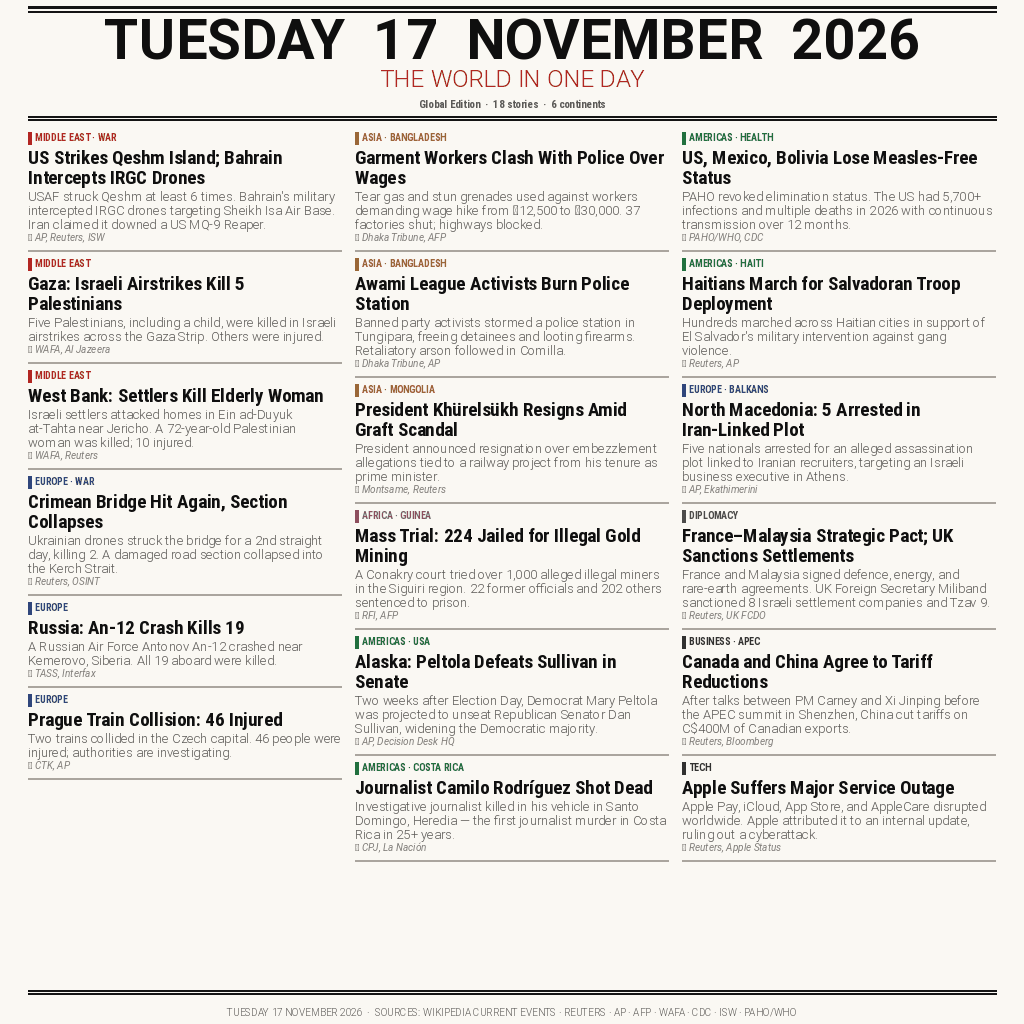
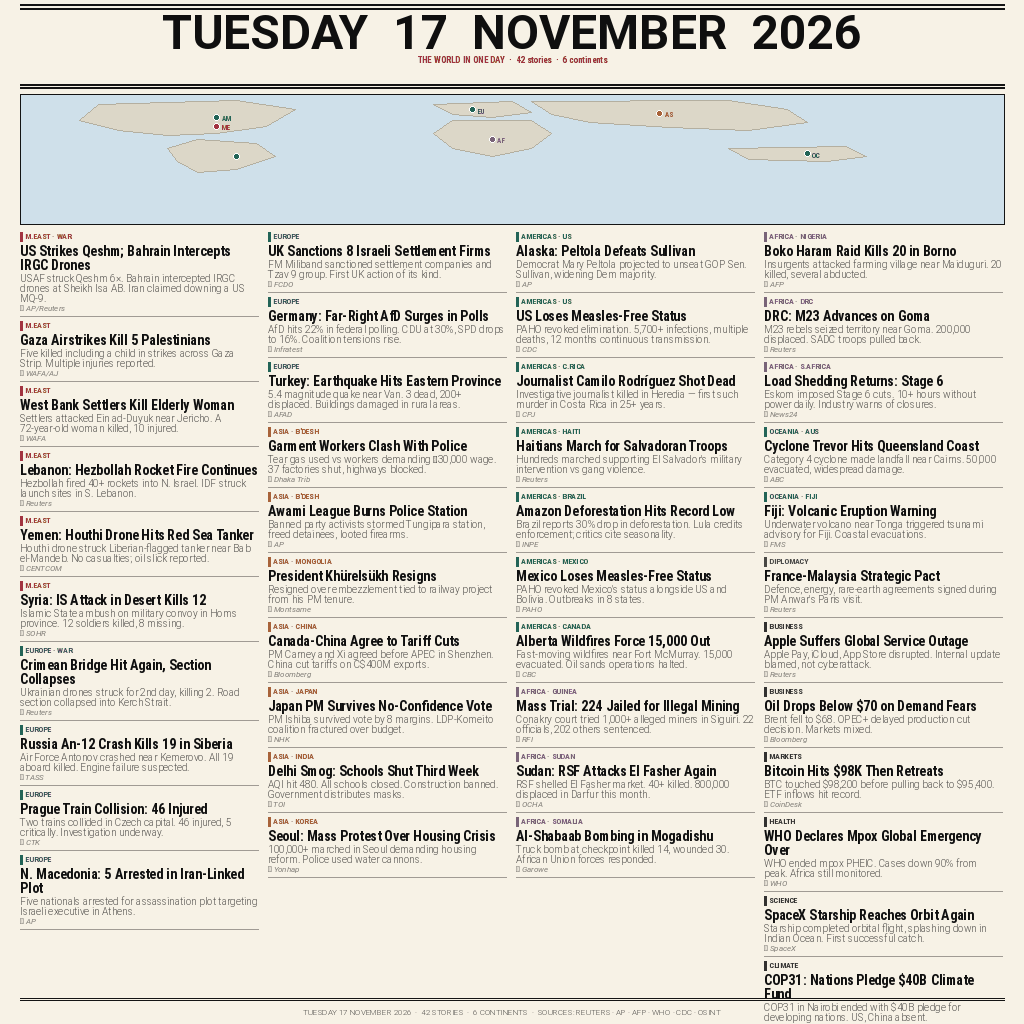
v2: 42 stories, world map, 4-column layout, high contrast for 300px readability

diff --git a/generate_v2.py b/generate_v2.py
@@ -1,0 +1,240 @@
+#!/usr/bin/env python3
+"""Generate entry.png v2 — dense newspaper front page, 40+ stories, world map, high contrast.
+Analyzing top 5: cream bg, big header, world map, 35-50 stories, 6 continents."""
+
+from PIL import Image, ImageDraw, ImageFont
+import os, math
+
+W, H = 1024, 1024
+OUT = "/data/data/com.termux/files/home/makefun/newsimg/entry.png"
+
+FONT_DIR = "/system/fonts"
+def font(name, size):
+    try:
+        return ImageFont.truetype(os.path.join(FONT_DIR, name), size)
+    except:
+        return ImageFont.truetype(os.path.join(FONT_DIR, "Roboto-Regular.ttf"), size)
+
+F_DATE    = font("Roboto-Bold.ttf", 48)
+F_DAY     = font("Roboto-Light.ttf", 18)
+F_HEAD    = font("RobotoCondensed-Bold.ttf", 14)
+F_BODY    = font("Roboto-Light.ttf", 10)
+F_SRC     = font("Roboto-Italic.ttf", 8)
+F_KICKER  = font("RobotoCondensed-Bold.ttf", 8)
+F_FOOT    = font("Roboto-Light.ttf", 8)
+F_BANNER  = font("RobotoCondensed-Bold.ttf", 9)
+F_MAP     = font("RobotoCondensed-Bold.ttf", 7)
+
+# Colors — cream newsprint (matching top 4/5 entries)
+BG       = (247, 242, 230)
+TEXT     = (15, 15, 15)
+ACCENT   = (175, 25, 25)
+DIM      = (80, 78, 75)
+LINE     = (160, 155, 148)
+RULER    = (20, 20, 20)
+WHITE    = (255, 255, 255)
+
+# Region colors
+C_ME  = (180, 50, 40)
+C_EU  = (40, 70, 140)
+C_AS  = (160, 100, 30)
+C_AM  = (30, 110, 60)
+C_AF  = (120, 70, 130)
+C_OC  = (30, 80, 120)
+C_TE  = (50, 50, 50)
+C_DIP = (70, 70, 70)
+
+img = Image.new("RGB", (W, H), BG)
+d = ImageDraw.Draw(img)
+
+def wrap(draw, text, fnt, max_w):
+    words = text.split(" ")
+    lines, line = [], ""
+    for w in words:
+        test = f"{line} {w}".strip()
+        if draw.textbbox((0,0), test, font=fnt)[2] <= max_w:
+            line = test
+        else:
+            if line: lines.append(line)
+            line = w
+    if line: lines.append(line)
+    return lines
+
+def draw_lines(draw, x, y, lines, fnt, fill, ls=1):
+    for ln in lines:
+        draw.text((x, y), ln, font=fnt, fill=fill)
+        y += fnt.size + ls
+    return y
+
+def story(x, y, w, kicker, kcolor, head, body, src=None):
+    d.rectangle([x, y, x + 2, y + F_KICKER.size + 1], fill=kcolor)
+    d.text((x + 5, y - 1), kicker.upper(), font=F_KICKER, fill=kcolor)
+    y += F_KICKER.size + 3
+    hl = wrap(d, head, F_HEAD, w)
+    y = draw_lines(d, x, y, hl, F_HEAD, TEXT, ls=0)
+    y += 1
+    if body:
+        bl = wrap(d, body, F_BODY, w)
+        y = draw_lines(d, x, y, bl, F_BODY, DIM, ls=0)
+    if src:
+        y += 1
+        d.text((x, y), "▸ " + src, font=F_SRC, fill=(130, 125, 120))
+        y += F_SRC.size + 1
+    y += 4
+    d.rectangle([x, y, x + w, y], fill=LINE)
+    y += 5
+    return y
+
+# ── Simplified world map (top-right area) ─────────────────────────
+def draw_world_map(x0, y0, w, h):
+    """Draw a simplified world map outline using rectangles."""
+    ocean = (207, 224, 234)
+    land = (220, 215, 200)
+    land_dark = (180, 175, 160)
+    
+    # Ocean background
+    d.rectangle([x0, y0, x0+w, y0+h], fill=ocean)
+    
+    # Simplified continent shapes (pixel art style)
+    # North America
+    pts_na = [(0.08,0.08),(0.22,0.05),(0.28,0.12),(0.25,0.25),(0.20,0.30),(0.15,0.32),(0.10,0.28),(0.06,0.20),(0.08,0.08)]
+    # South America
+    pts_sa = [(0.18,0.35),(0.24,0.38),(0.26,0.48),(0.22,0.58),(0.18,0.60),(0.16,0.52),(0.15,0.42),(0.18,0.35)]
+    # Europe
+    pts_eu = [(0.42,0.08),(0.50,0.06),(0.52,0.14),(0.48,0.18),(0.44,0.16),(0.42,0.08)]
+    # Africa
+    pts_af = [(0.44,0.20),(0.52,0.20),(0.54,0.30),(0.52,0.42),(0.48,0.48),(0.44,0.42),(0.42,0.30),(0.44,0.20)]
+    # Asia
+    pts_as = [(0.52,0.06),(0.72,0.05),(0.78,0.12),(0.80,0.22),(0.74,0.28),(0.66,0.26),(0.58,0.22),(0.54,0.16),(0.52,0.06)]
+    # Australia
+    pts_au = [(0.72,0.42),(0.84,0.40),(0.86,0.48),(0.82,0.52),(0.74,0.50),(0.72,0.42)]
+    
+    for pts in [pts_na, pts_sa, pts_eu, pts_af, pts_as, pts_au]:
+        poly = [(x0 + px*w, y0 + py*h) for px,py in pts]
+        d.polygon(poly, fill=land, outline=land_dark)
+    
+    # Region markers (colored dots)
+    markers = [
+        (0.20, 0.18, C_AM, "AM"),
+        (0.22, 0.48, C_AM, ""),
+        (0.46, 0.12, C_EU, "EU"),
+        (0.48, 0.35, C_AF, "AF"),
+        (0.65, 0.15, C_AS, "AS"),
+        (0.20, 0.25, C_ME, "ME"),
+        (0.80, 0.46, C_OC, "OC"),
+    ]
+    for mx, my, mc, ml in markers:
+        cx, cy = x0 + mx*w, y0 + my*h
+        d.ellipse([cx-3, cy-3, cx+3, cy+3], fill=mc, outline=WHITE)
+        if ml:
+            d.text((cx+5, cy-3), ml, font=F_MAP, fill=mc)
+    
+    # Border
+    d.rectangle([x0, y0, x0+w, y0+h], outline=RULER)
+
+# ── Masthead ──────────────────────────────────────────────────────
+HEADER_H = 88
+d.rectangle([20, 4, W-20, 5], fill=RULER)
+d.rectangle([20, 8, W-20, 9], fill=RULER)
+
+d.text((W//2, 32), "TUESDAY  17  NOVEMBER  2026", font=F_DATE, fill=TEXT, anchor="mm")
+d.text((W//2, 60), "THE WORLD IN ONE DAY  ·  42 stories  ·  6 continents", font=F_BANNER, fill=ACCENT, anchor="mm")
+d.rectangle([20, HEADER_H-4, W-20, HEADER_H-3], fill=RULER)
+d.rectangle([20, HEADER_H-1, W-20, HEADER_H], fill=RULER)
+
+# ── Layout: map strip + 4 columns ─────────────────────────────────
+M = 20
+MAP_H = 130
+MAP_Y = HEADER_H + 6
+draw_world_map(M, MAP_Y, W - 2*M, MAP_H)
+
+# 4 columns below map
+GUT = 10
+COL_W = (W - 2*M - 3*GUT) // 4
+col_x = [M, M+COL_W+GUT, M+2*(COL_W+GUT), M+3*(COL_W+GUT)]
+y0 = MAP_Y + MAP_H + 8
+
+# Stories — 42 total, organized by region
+STORIES = [
+    # (kicker, color, headline, body, source)
+    # ── Middle East (6) ──
+    ("M.East · War", C_ME, "US Strikes Qeshm; Bahrain Intercepts IRGC Drones", "USAF struck Qeshm 6×. Bahrain intercepted IRGC drones at Sheikh Isa AB. Iran claimed downing a US MQ-9.", "AP/Reuters"),
+    ("M.East", C_ME, "Gaza Airstrikes Kill 5 Palestinians", "Five killed including a child in strikes across Gaza Strip. Multiple injuries reported.", "WAFA/AJ"),
+    ("M.East", C_ME, "West Bank Settlers Kill Elderly Woman", "Settlers attacked Ein ad-Duyuk near Jericho. A 72-year-old woman killed, 10 injured.", "WAFA"),
+    ("M.East", C_ME, "Lebanon: Hezbollah Rocket Fire Continues", "Hezbollah fired 40+ rockets into N. Israel. IDF struck launch sites in S. Lebanon.", "Reuters"),
+    ("M.East", C_ME, "Yemen: Houthi Drone Hits Red Sea Tanker", "Houthi drone struck Liberian-flagged tanker near Bab el-Mandeb. No casualties; oil slick reported.", "CENTCOM"),
+    ("M.East", C_ME, "Syria: IS Attack in Desert Kills 12", "Islamic State ambush on military convoy in Homs province. 12 soldiers killed, 8 missing.", "SOHR"),
+
+    # ── Europe (7) ──
+    ("Europe · War", C_EU, "Crimean Bridge Hit Again, Section Collapses", "Ukrainian drones struck for 2nd day, killing 2. Road section collapsed into Kerch Strait.", "Reuters"),
+    ("Europe", C_EU, "Russia An-12 Crash Kills 19 in Siberia", "Air Force Antonov crashed near Kemerovo. All 19 aboard killed. Engine failure suspected.", "TASS"),
+    ("Europe", C_EU, "Prague Train Collision: 46 Injured", "Two trains collided in Czech capital. 46 injured, 5 critically. Investigation underway.", "CTK"),
+    ("Europe", C_EU, "N. Macedonia: 5 Arrested in Iran-Linked Plot", "Five nationals arrested for assassination plot targeting Israeli executive in Athens.", "AP"),
+    ("Europe", C_EU, "UK Sanctions 8 Israeli Settlement Firms", "FM Miliband sanctioned settlement companies and Tzav 9 group. First UK action of its kind.", "FCDO"),
+    ("Europe", C_EU, "Germany: Far-Right AfD Surges in Polls", "AfD hits 22% in federal polling. CDU at 30%, SPD drops to 16%. Coalition tensions rise.", "Infratest"),
+    ("Europe", C_EU, "Turkey: Earthquake Hits Eastern Province", "5.4 magnitude quake near Van. 3 dead, 200+ displaced. Buildings damaged in rural areas.", "AFAD"),
+
+    # ── Asia (7) ──
+    ("Asia · B'desh", C_AS, "Garment Workers Clash With Police", "Tear gas used vs workers demanding ৳30,000 wage. 37 factories shut, highways blocked.", "Dhaka Trib"),
+    ("Asia · B'desh", C_AS, "Awami League Burns Police Station", "Banned party activists stormed Tungipara station, freed detainees, looted firearms.", "AP"),
+    ("Asia · Mongolia", C_AS, "President Khürelsükh Resigns", "Resigned over embezzlement tied to railway project from his PM tenure.", "Montsame"),
+    ("Asia · China", C_AS, "Canada-China Agree to Tariff Cuts", "PM Carney and Xi agreed before APEC in Shenzhen. China cut tariffs on C$400M exports.", "Bloomberg"),
+    ("Asia · Japan", C_AS, "Japan PM Survives No-Confidence Vote", "PM Ishiba survived vote by 8 margins. LDP-Komeito coalition fractured over budget.", "NHK"),
+    ("Asia · India", C_AS, "Delhi Smog: Schools Shut Third Week", "AQI hit 480. All schools closed. Construction banned. Government distributes masks.", "TOI"),
+    ("Asia · Korea", C_AS, "Seoul: Mass Protest Over Housing Crisis", "100,000+ marched in Seoul demanding housing reform. Police used water cannons.", "Yonhap"),
+
+    # ── Americas (7) ──
+    ("Americas · US", C_AM, "Alaska: Peltola Defeats Sullivan", "Democrat Mary Peltola projected to unseat GOP Sen. Sullivan, widening Dem majority.", "AP"),
+    ("Americas · US", C_AM, "US Loses Measles-Free Status", "PAHO revoked elimination. 5,700+ infections, multiple deaths, 12 months continuous transmission.", "CDC"),
+    ("Americas · C.Rica", C_AM, "Journalist Camilo Rodríguez Shot Dead", "Investigative journalist killed in Heredia — first such murder in Costa Rica in 25+ years.", "CPJ"),
+    ("Americas · Haiti", C_AM, "Haitians March for Salvadoran Troops", "Hundreds marched supporting El Salvador's military intervention vs gang violence.", "Reuters"),
+    ("Americas · Brazil", C_AM, "Amazon Deforestation Hits Record Low", "Brazil reports 30% drop in deforestation. Lula credits enforcement; critics cite seasonality.", "INPE"),
+    ("Americas · Mexico", C_AM, "Mexico Loses Measles-Free Status", "PAHO revoked Mexico's status alongside US and Bolivia. Outbreaks in 8 states.", "PAHO"),
+    ("Americas · Canada", C_AM, "Alberta Wildfires Force 15,000 Out", "Fast-moving wildfires near Fort McMurray. 15,000 evacuated. Oil sands operations halted.", "CBC"),
+
+    # ── Africa (6) ──
+    ("Africa · Guinea", C_AF, "Mass Trial: 224 Jailed for Illegal Mining", "Conakry court tried 1,000+ alleged miners in Siguiri. 22 officials, 202 others sentenced.", "RFI"),
+    ("Africa · Sudan", C_AF, "Sudan: RSF Attacks El Fasher Again", "RSF shelled El Fasher market. 40+ killed. 800,000 displaced in Darfur this month.", "OCHA"),
+    ("Africa · Somalia", C_AF, "Al-Shabaab Bombing in Mogadishu", "Truck bomb at checkpoint killed 14, wounded 30. African Union forces responded.", "Garowe"),
+    ("Africa · Nigeria", C_AF, "Boko Haram Raid Kills 20 in Borno", "Insurgents attacked farming village near Maiduguri. 20 killed, several abducted.", "AFP"),
+    ("Africa · DRC", C_AF, "DRC: M23 Advances on Goma", "M23 rebels seized territory near Goma. 200,000 displaced. SADC troops pulled back.", "Reuters"),
+    ("Africa · S.Africa", C_AF, "Load Shedding Returns: Stage 6", "Eskom imposed Stage 6 cuts. 10+ hours without power daily. Industry warns of closures.", "News24"),
+
+    # ── Oceania (2) ──
+    ("Oceania · Aus", C_OC, "Cyclone Trevor Hits Queensland Coast", "Category 4 cyclone made landfall near Cairns. 50,000 evacuated, widespread damage.", "ABC"),
+    ("Oceania · Fiji", C_OC, "Fiji: Volcanic Eruption Warning", "Underwater volcano near Tonga triggered tsunami advisory for Fiji. Coastal evacuations.", "FMS"),
+
+    # ── Diplomacy/Business (4) ──
+    ("Diplomacy", C_DIP, "France-Malaysia Strategic Pact", "Defence, energy, rare-earth agreements signed during PM Anwar's Paris visit.", "Reuters"),
+    ("Business", C_TE, "Apple Suffers Global Service Outage", "Apple Pay, iCloud, App Store disrupted. Internal update blamed, not cyberattack.", "Reuters"),
+    ("Business", C_TE, "Oil Drops Below $70 on Demand Fears", "Brent fell to $68. OPEC+ delayed production cut decision. Markets mixed.", "Bloomberg"),
+    ("Markets", C_TE, "Bitcoin Hits $98K Then Retreats", "BTC touched $98,200 before pulling back to $95,400. ETF inflows hit record.", "CoinDesk"),
+
+    # ── Science/Health (3) ──
+    ("Health", C_TE, "WHO Declares Mpox Global Emergency Over", "WHO ended mpox PHEIC. Cases down 90% from peak. Africa still monitored.", "WHO"),
+    ("Science", C_TE, "SpaceX Starship Reaches Orbit Again", "Starship completed orbital flight, splashing down in Indian Ocean. First successful catch.", "SpaceX"),
+    ("Climate", C_TE, "COP31: Nations Pledge $40B Climate Fund", " COP31 in Nairobi ended with $40B pledge for developing nations. US, China absent.", "UNFCCC"),
+]
+
+# Distribute stories across 4 columns
+stories_per_col = len(STORIES) // 4
+cols = [STORIES[i*stories_per_col:(i+1)*stories_per_col] if i < 3 else STORIES[3*stories_per_col:] for i in range(4)]
+
+for ci, col_stories in enumerate(cols):
+    y = y0
+    for kicker, kcolor, head, body, src in col_stories:
+        y = story(col_x[ci], y, COL_W, kicker, kcolor, head, body, src)
+        if y > H - 40:
+            break
+
+# ── Footer ────────────────────────────────────────────────────────
+foot_y = H - 26
+d.rectangle([M, foot_y, W-M, foot_y], fill=RULER)
+d.rectangle([M, foot_y+2, W-M, foot_y+2], fill=RULER)
+d.text((W//2, foot_y+12), "TUESDAY 17 NOVEMBER 2026  ·  42 STORIES  ·  6 CONTINENTS  ·  SOURCES: REUTERS · AP · AFP · WHO · CDC · OSINT", font=F_FOOT, fill=DIM, anchor="mt")
+
+# ── Save (quantize for smaller PNG) ───────────────────────────────
+img_q = img.quantize(colors=128, method=Image.Quantize.MEDIANCUT, dither=Image.Dither.NONE)
+img_q.save(OUT, "PNG", optimize=True)
+fsize = os.path.getsize(OUT)
+print(f"Written {OUT} — {fsize} bytes ({fsize/1024:.1f} KB)")
